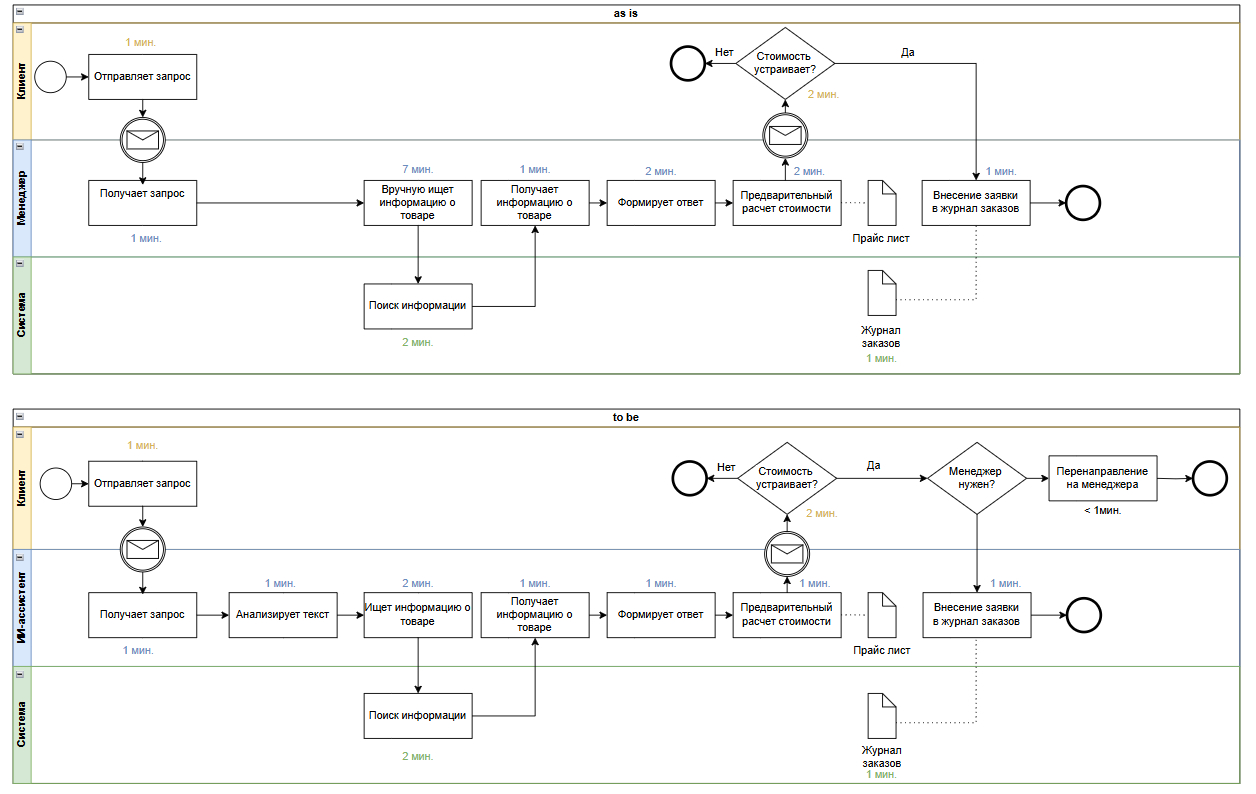
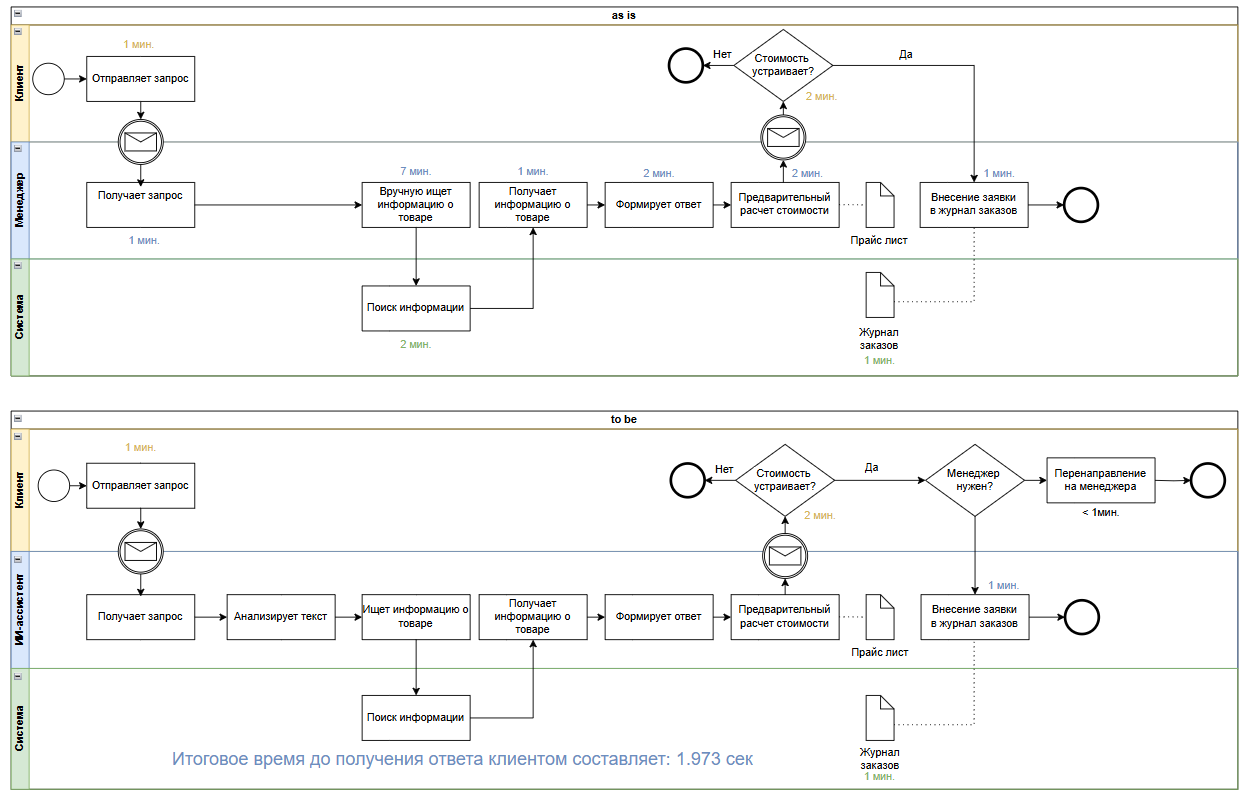
Update main.py and updated AS-IS/TO-BE diagram

diff --git a/main.py b/main.py
@@ -25,6 +25,18 @@ MISTRAL_URL = "https://api.mistral.ai/v1/chat/completions"
 # Инициализация FastAPI-приложения.
 app = FastAPI()
 
+#Middleware для замера времени всех запросов
+import time
+from fastapi import Request
+
+@app.middleware("http")
+async def log_request_time(request: Request, call_next):
+    start = time.time()
+    response = await call_next(request)
+    duration = time.time() - start
+    print(f"Request took {duration:.3f} seconds | {request.url.path}")
+    return response
+
 # Подключаем базу и модели.
 from src.database.db import init_db
 from src.database.models.part import Part
